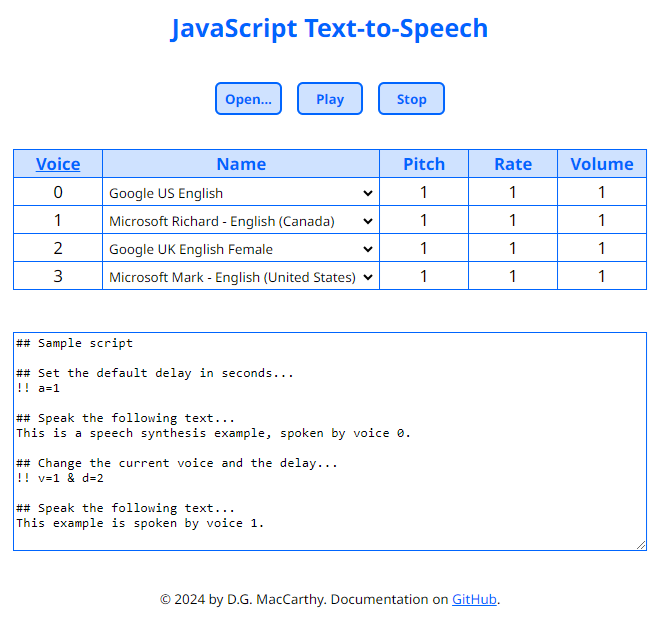
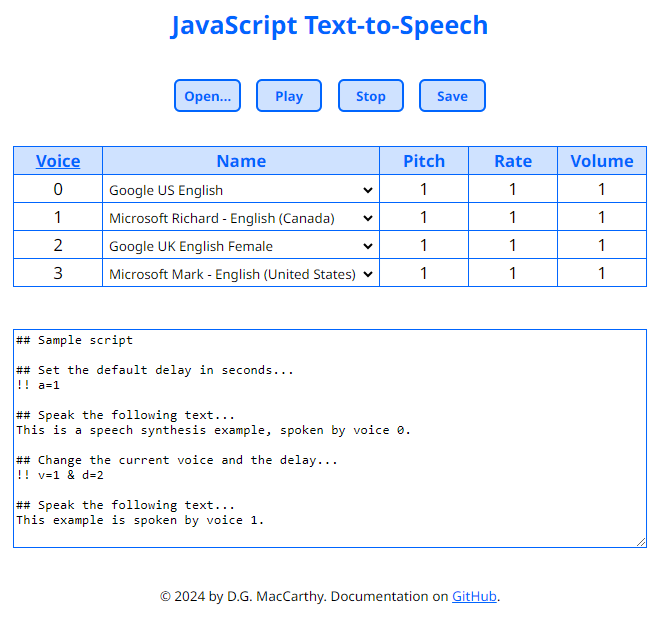
Add Save button

diff --git a/docs/tts.js b/docs/tts.js
@@ -25,7 +25,7 @@ function init() {
         init.voices = voices;
         init.voiceRow();
         $("#Input").show().width($("table").width());
-        $("#Play, #Stop").show();
+        $("#Buttons").show();
     }
 }
 
@@ -214,6 +214,19 @@ play.stop = () => {
     // Stop the current playback
     clearTimeout(play.timeout);
     play.timeout = false;
+}
+
+play.save = (fn) => {
+    let blob = new Blob([$("textarea").val()], {type: "text/plain"});
+    let url = URL.createObjectURL(blob);
+    if (fn === true) {
+        fn = new Date().toString().substring(4, 24);
+        fn = fn.replaceAll(":", "").replaceAll(" ", "");
+        fn = fn.toLowerCase() + ".txt";
+    }
+    let a = $("<a>").attr({href: url, download: fn});
+    if (fn == null) a.attr({target: "js-tts-text"});
+    a[0].click();
 }
 
 function lines() {console.log(`${play.queue.length} lines`)}

diff --git a/docs/index.html b/docs/index.html
@@ -17,6 +17,7 @@
         <input id="File" type="file" oninput="loadFile()"/>
         <button id="Play" onclick="loadText(); play()">Play</button>
         <button id="Stop" onclick="play.stop()">Stop</button>
+        <button id="Save" onclick="play.save(true)">Save</button>
     </p>
     <table>
         <thead><tr>

diff --git a/docs/tts.css b/docs/tts.css
@@ -31,7 +31,7 @@ h2 {
 
 thead {background-color: var(--bg)}
 th, a {color: var(--blue)}
-#Stop, #Play, #File {display: none}
+#Buttons, #File {display: none}
 
 button {
     min-width: 5em;

diff --git a/README.md b/README.md
@@ -15,6 +15,7 @@ Type your script into the text area, or upload a plain text file by clicking the
 * The `d` command sets the delay time in seconds before speaking, for the next line only.
 * The `a` command sets the delay time in seconds for all subsequent lines where `d` is not specified.
 * Click the *Play* button to begin speaking.
+* Click the *Save* button to download the script as a plain text file.
 
 ## Cast of Voices
 
@@ -22,7 +23,7 @@ Voice 0 is the default voice. You can customize the voice using the selection co
 
 Click the first column heading labelled "Voice" to add more voices to the cast.
 
-You can also load your cast of voices from a `json` file.
+You can also use the *Open* button to load your cast of voices from a `json` file.
 
 * Create the file with a key named `cast` that describes an array of voices.
 * Each voice description is an array with four values.
